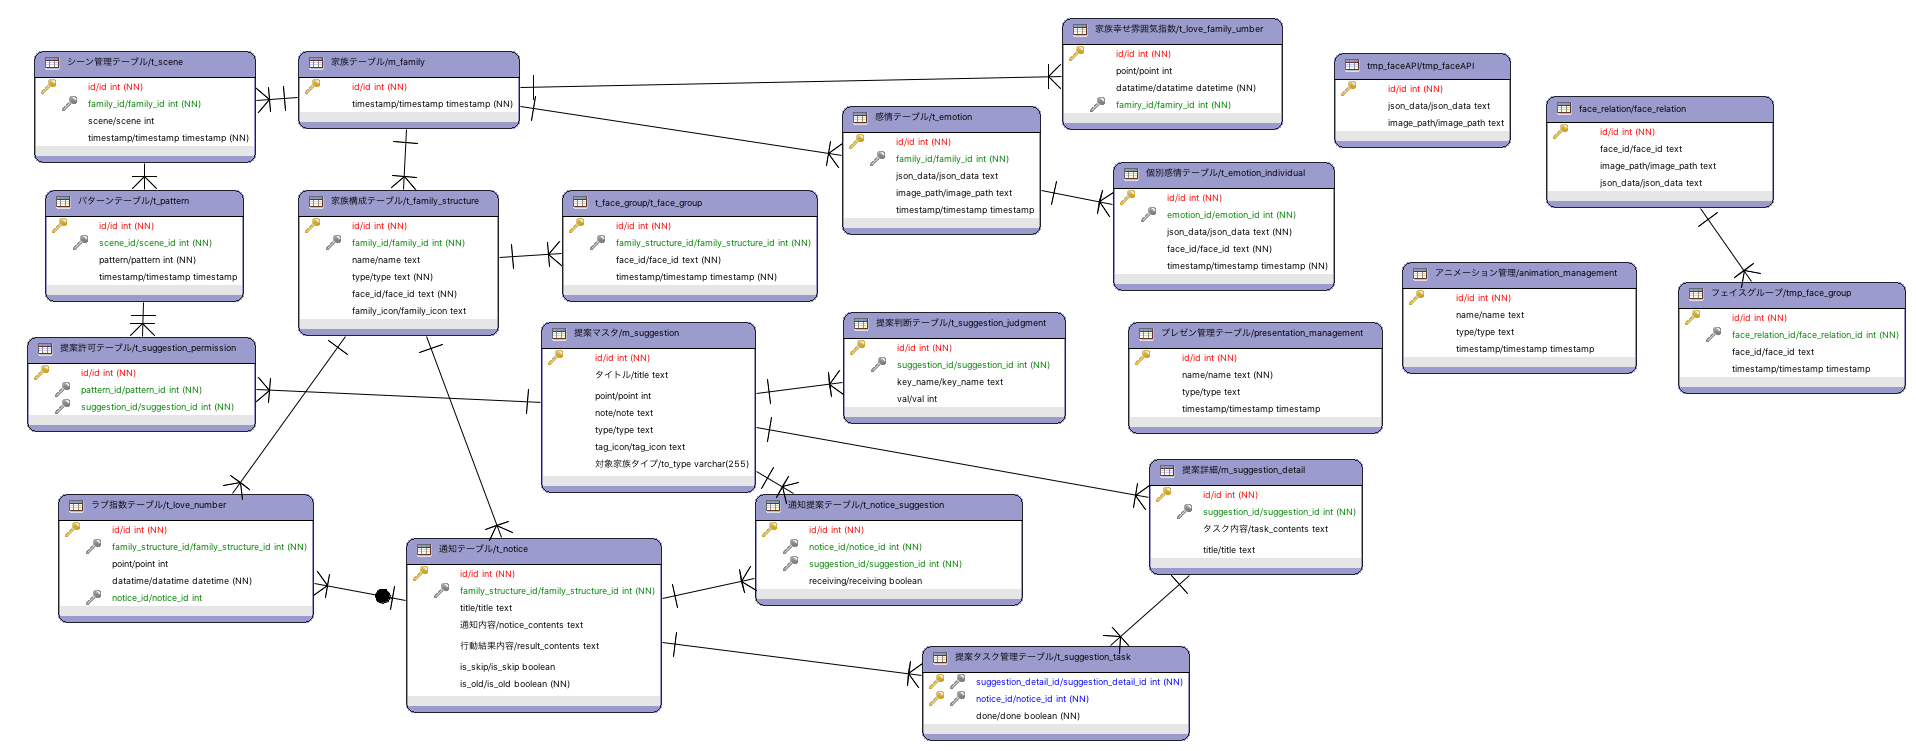
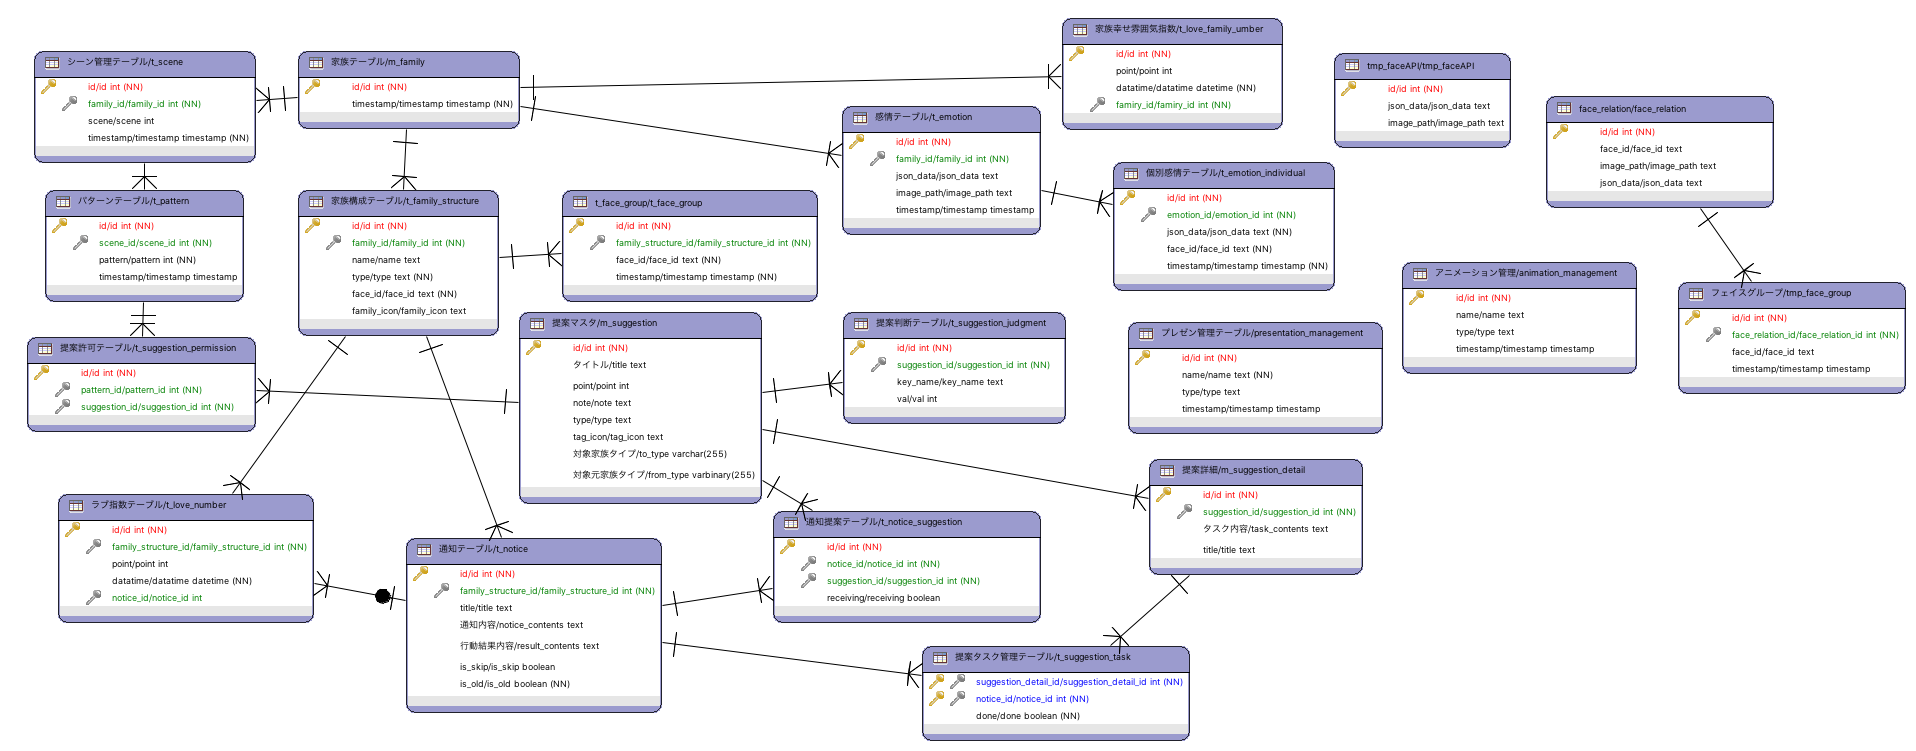
addColumm-er:m_suggestion.from_type

diff --git a/migrations/20171128002422-addColumn-m-suggestion.js b/migrations/20171128002422-addColumn-m-suggestion.js
@@ -1,0 +1,30 @@
+'use strict';
+
+var dbm;
+var type;
+var seed;
+
+/**
+  * We receive the dbmigrate dependency from dbmigrate initially.
+  * This enables us to not have to rely on NODE_PATH.
+  */
+exports.setup = function(options, seedLink) {
+  dbm = options.dbmigrate;
+  type = dbm.dataType;
+  seed = seedLink;
+};
+
+exports.up = function(db) {
+  return db.addColumn('m_suggestion', 'from_type', {
+      type: type.STRING,
+      defaultValue: 'ALL',
+  });
+};
+
+exports.down = function(db) {
+  return db.removeColumn('m_suggestion', 'from_type');
+};
+
+exports._meta = {
+  "version": 1
+};
